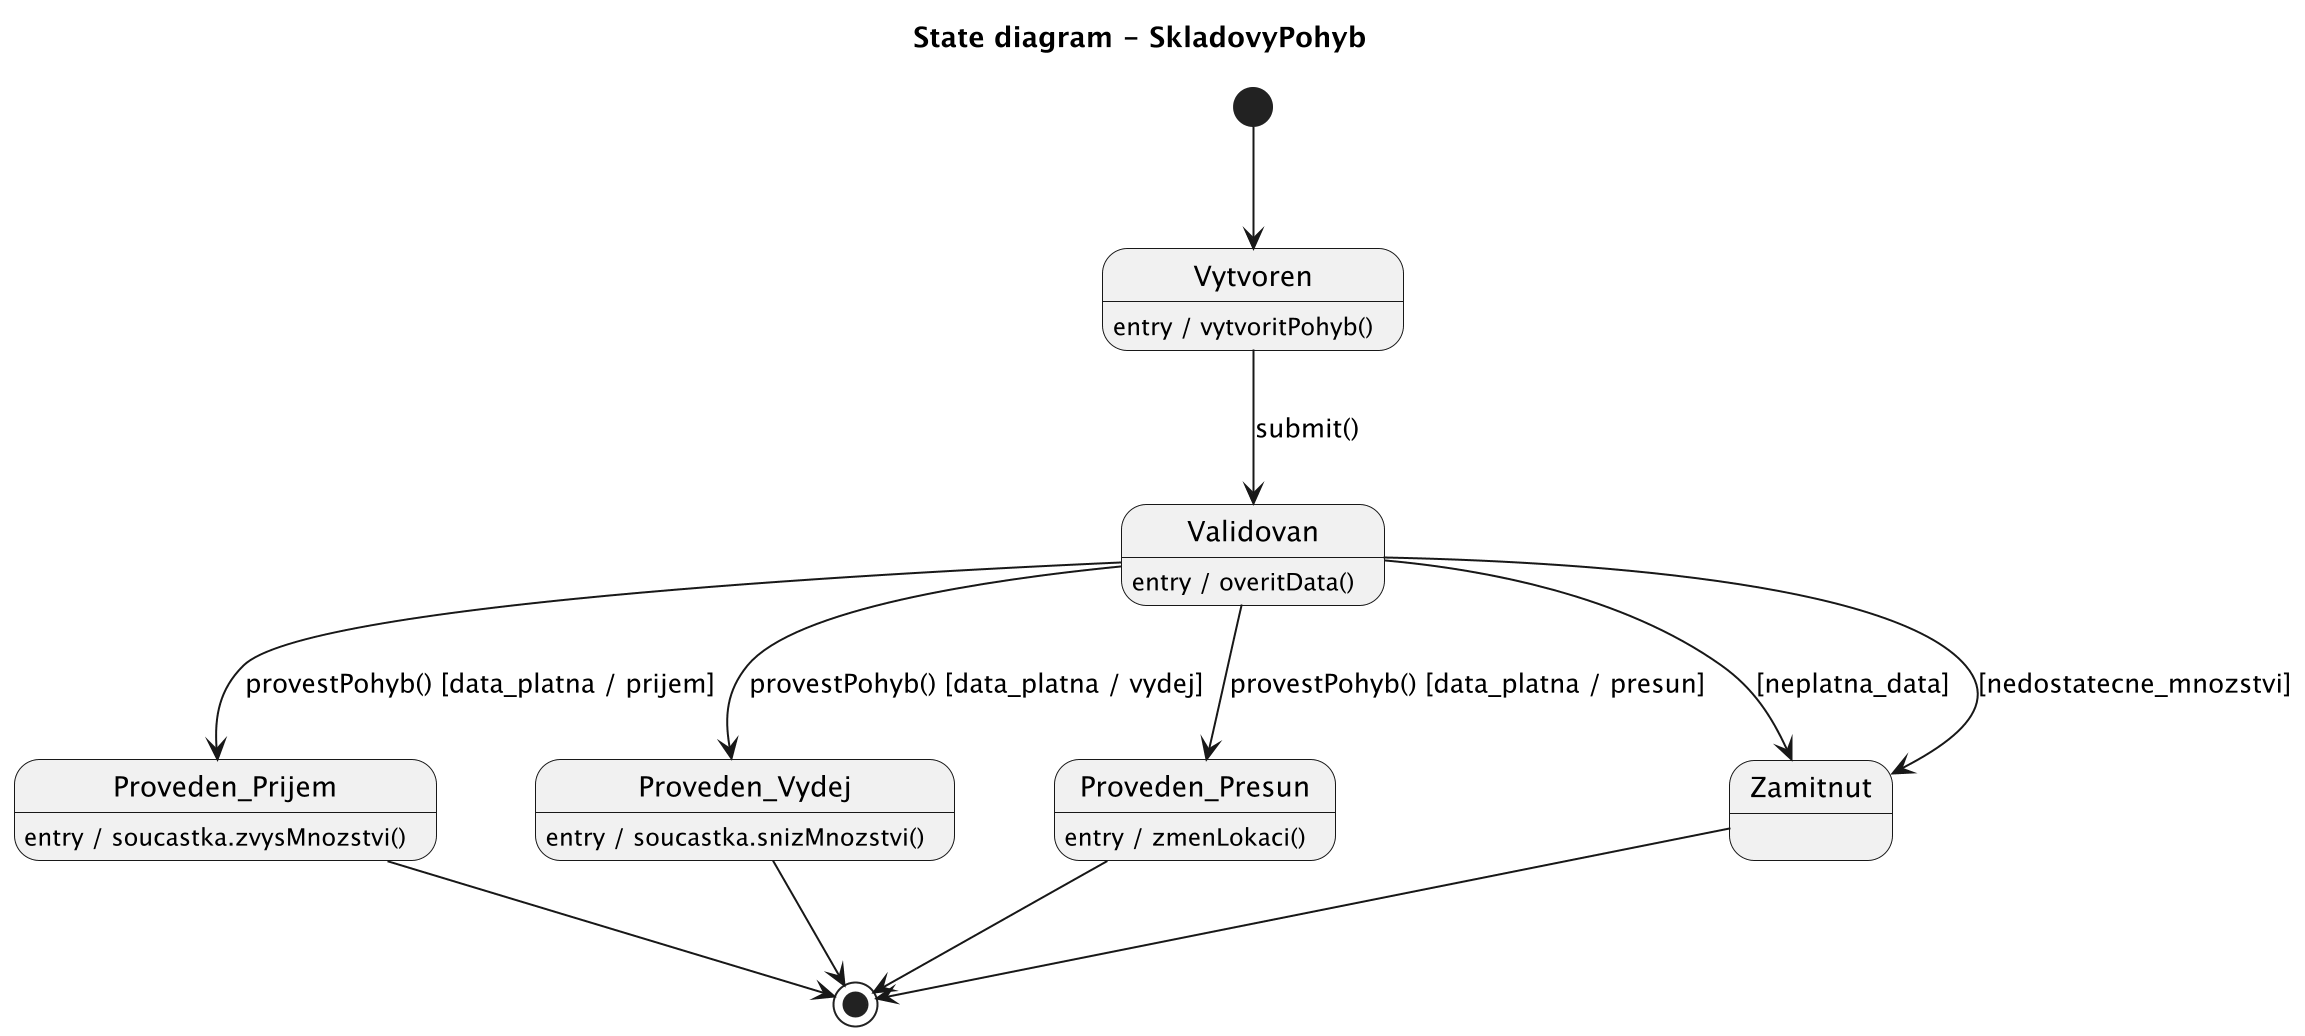
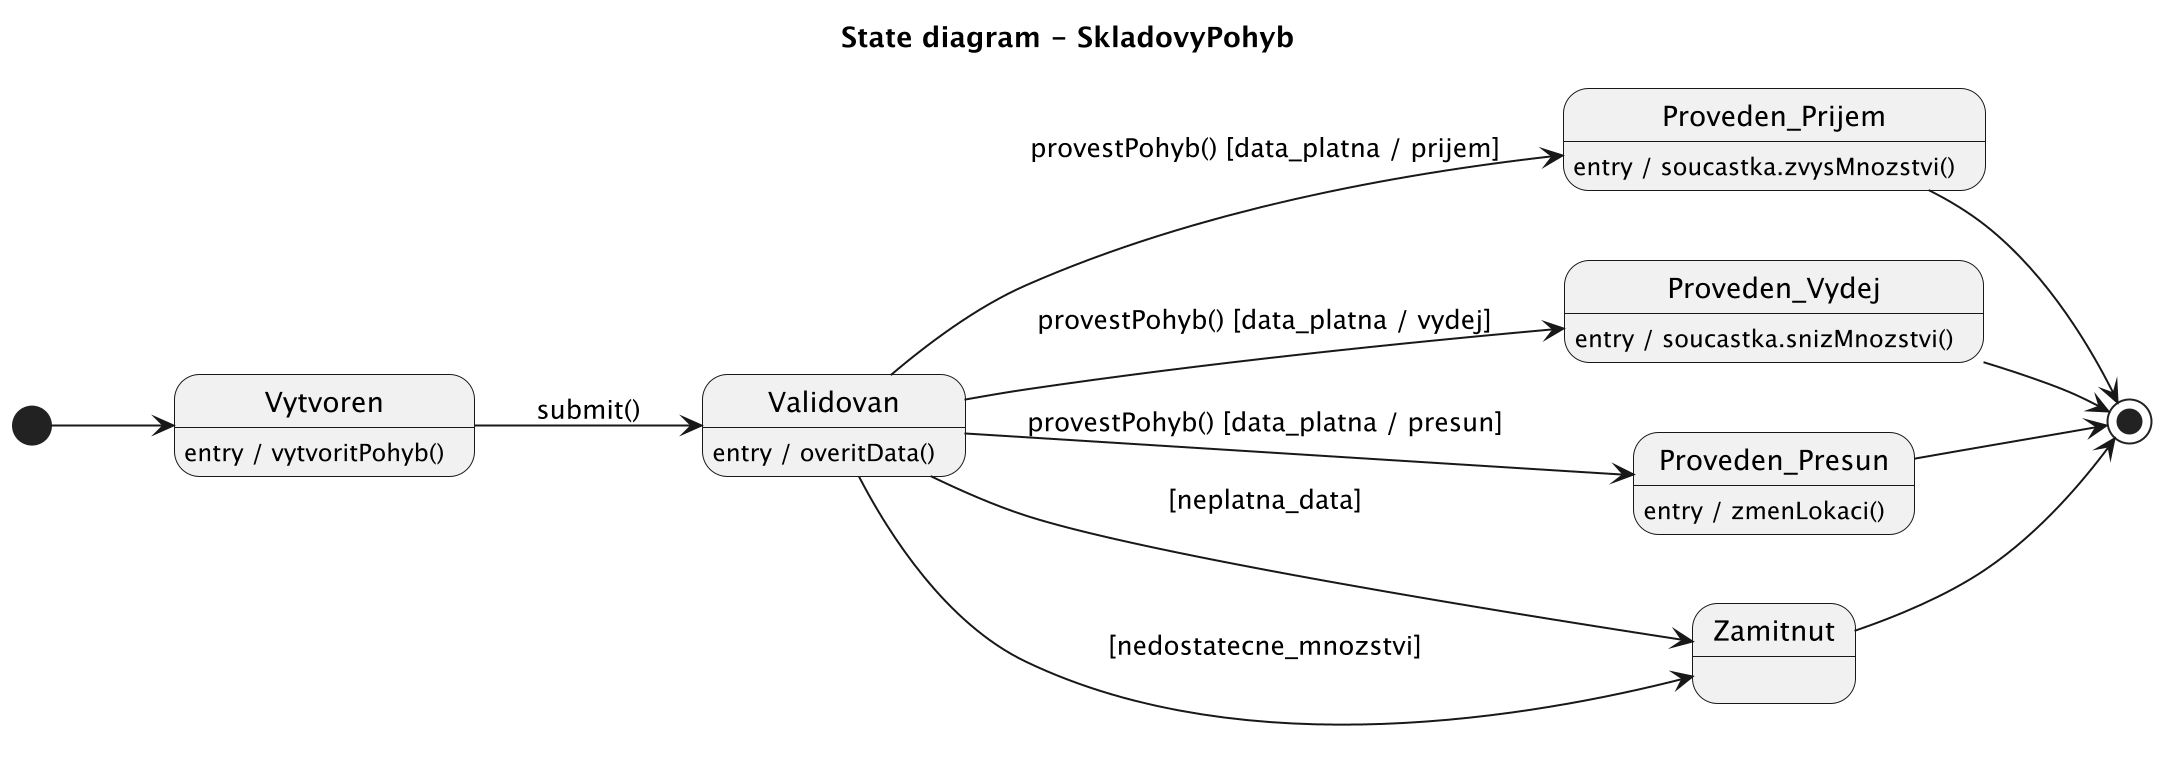
docs: state diagram SkladovyPohyb horizontal layout, vyplneni cele stranky

diff --git a/docs/chapters/datovy_model.tex b/docs/chapters/datovy_model.tex
@@ -98,7 +98,7 @@ v systému. Každý pohyb prochází životním cyklem řízeným třemi metodam
 \end{itemize}
 \begin{sidewaysfigure}[H]
   \centering
-  \includegraphics[width=\textheight]{09_state_pohyb_skladu.png}
+  \includegraphics[width=\textheight, height=\textwidth, keepaspectratio]{09_state_pohyb_skladu.png}
   \caption{Stavový diagram třídy SkladovyPohyb}
   \label{fig:state_pohyb}
 \end{sidewaysfigure}
@@ -234,7 +234,7 @@ v systému. Atribut \texttt{typ} rozlišuje tři druhy pohybu: \emph{příjem} (
 
 \begin{sidewaysfigure}[H]
   \centering
-  \includegraphics[width=\textheight]{09_state_pohyb_skladu.png}
+  \includegraphics[width=\textheight, height=\textwidth, keepaspectratio]{09_state_pohyb_skladu.png}
   \caption{Stavový diagram třídy SkladovyPohyb}
   \label{fig:state_pohyb}
 \end{sidewaysfigure}
